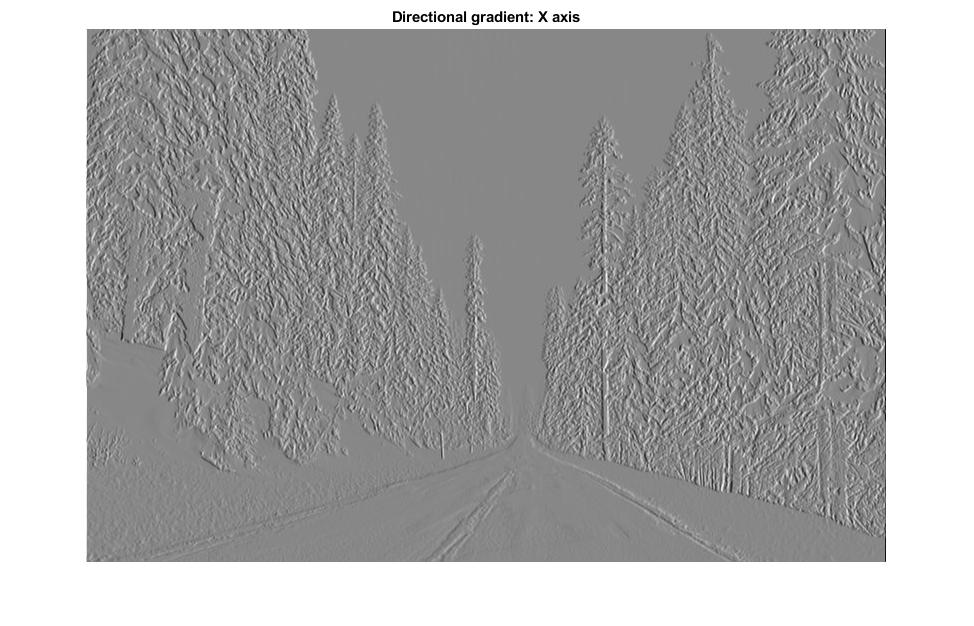
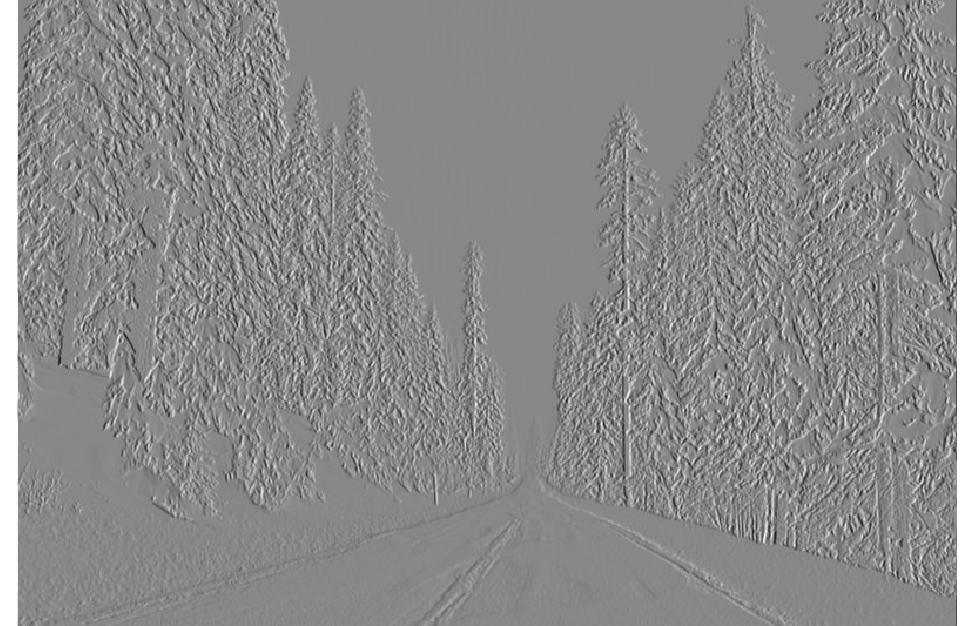
More work on denoising and edge detection

diff --git a/Lab2/Part1 Image Enhancement/compute_LoG.m b/Lab2/Part1 Image Enhancement/compute_LoG.m
@@ -10,22 +10,24 @@ switch LOG_type
     case 2
         %method 2
         LoG_kernel = fspecial('log', 5, 0.5);
-        imOut = imfilter(image, LoG_kernel, 'conv');
+        imOut = imfilter(image, LoG_kernel, 'replicate', 'conv');
         
     case 3
         %method 3
-        ratio = 10;
+        ratio = 1.6;
         sigma1 = 0.5;
         sigma2 = sigma1 * ratio;
+
+        gaussian1 = imgaussfilt(image, sigma1, 'FilterSize', 5);
+        gaussian2 = imgaussfilt(image, sigma2, 'FilterSize', 5);
         
-        filter1 = fspecial('Gaussian', 5, sigma1);
-        filter2 = fspecial('Gaussian', 5, sigma2);
-        
-        gaussian1 = imfilter(image, filter1, 'replicate');
-        gaussian2 = imfilter(image, filter2, 'replicate');
+%         filter1 = fspecial('Gaussian', 5, sigma1);
+%         filter2 = fspecial('Gaussian', 5, sigma2);
+%         
+%         gaussian1 = imfilter(image, filter1, 'replicate');
+%         gaussian2 = imfilter(image, filter2, 'replicate');
         
         imOut = gaussian2 - gaussian1;
 end
-% figure, imshow(imOut, []);
 end
 

diff --git a/Lab2/Part1 Image Enhancement/testing.m b/Lab2/Part1 Image Enhancement/testing.m
@@ -1,0 +1,29 @@
+%% Read img1
+img = imread('images\image1_gaussian.jpg');
+%% Denoising
+denoised = denoise(img, 'gaussian', 1, 3);
+figure, imshow(denoised);
+
+%% Read img2
+img = imread('images\image2.jpg');
+
+%% First order gradient
+% [Gx1, Gy1] = imgradientxy(img);
+% [Gmag1, Gdir1] = imgradient(img);
+
+[Gx2, Gy2, Gmag2, Gdir2] = compute_gradient(img);
+
+% figure, imshow(Gx1, []), title('Directional gradient: X axis MATLAB')
+% figure, imshow(Gy1, []), title('Directional gradient: Y axis MATLAB')
+% figure, imshow(Gmag1, []), title('Gradient magnitude MATLAB')
+% figure, imshow(Gdir1, []), title('Gradient direction MATLAB')
+
+figure, imshow(Gx2, [])%, title('Directional gradient: X axis')
+figure, imshow(Gy2, [])%, title('Directional gradient: Y axis')
+figure, imshow(Gmag2, [])%, title('Gradient magnitude')
+figure, imshow(Gdir2, [])%, title('Gradient direction')
+% set(gca,'position',[0 0 1 1],'units','normalized')
+
+%% Second order gradient
+LoG = compute_LoG(img, 2);
+figure, imshow(LoG, []);

diff --git a/Lab2/Part1 Image Enhancement/compute_gradient.m b/Lab2/Part1 Image Enhancement/compute_gradient.m
@@ -3,8 +3,10 @@ function [Gx, Gy, im_magnitude, im_direction] = compute_gradient(image)
 sobel_kernel = [1 0 -1; 2 0 -2; 1 0 -1];
 Gx = conv2(image, sobel_kernel, 'same');
 Gy = conv2(image, transpose(sobel_kernel), 'same');
+% Gx = double(imfilter(image, sobel_kernel, 'replicate'));
+% Gy = double(imfilter(image, transpose(sobel_kernel), 'replicate'));
 
 % compute gradient magnitue and direction
 im_magnitude = sqrt(Gx .^ 2 + Gy .^ 2);
-im_direction = atan2(Gy, Gx);
+im_direction = -atan2(Gy, Gx);
 end

diff --git a/Lab2/Part1 Image Enhancement/denoise.m b/Lab2/Part1 Image Enhancement/denoise.m
@@ -23,6 +23,6 @@ switch kernel_type
         if nargin ~= 4
            error('Invalid number of parameters for Gaussian filtering')
         end
-        imOut = imfilter(image, gauss2D(varargin{1}, varargin{2}));
+        imOut = imfilter(image, gauss2D(varargin{1}, varargin{2}), 'replicate');
 end
 end
